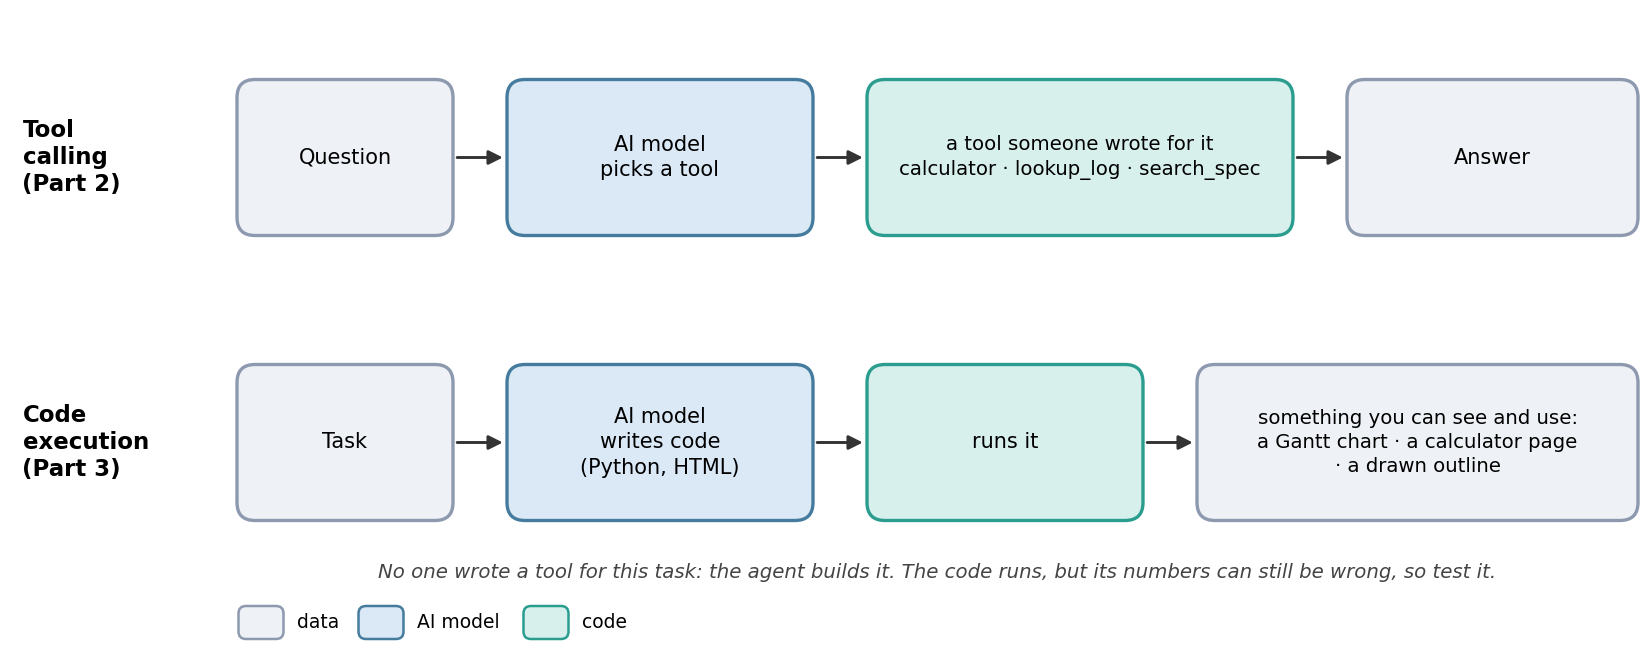
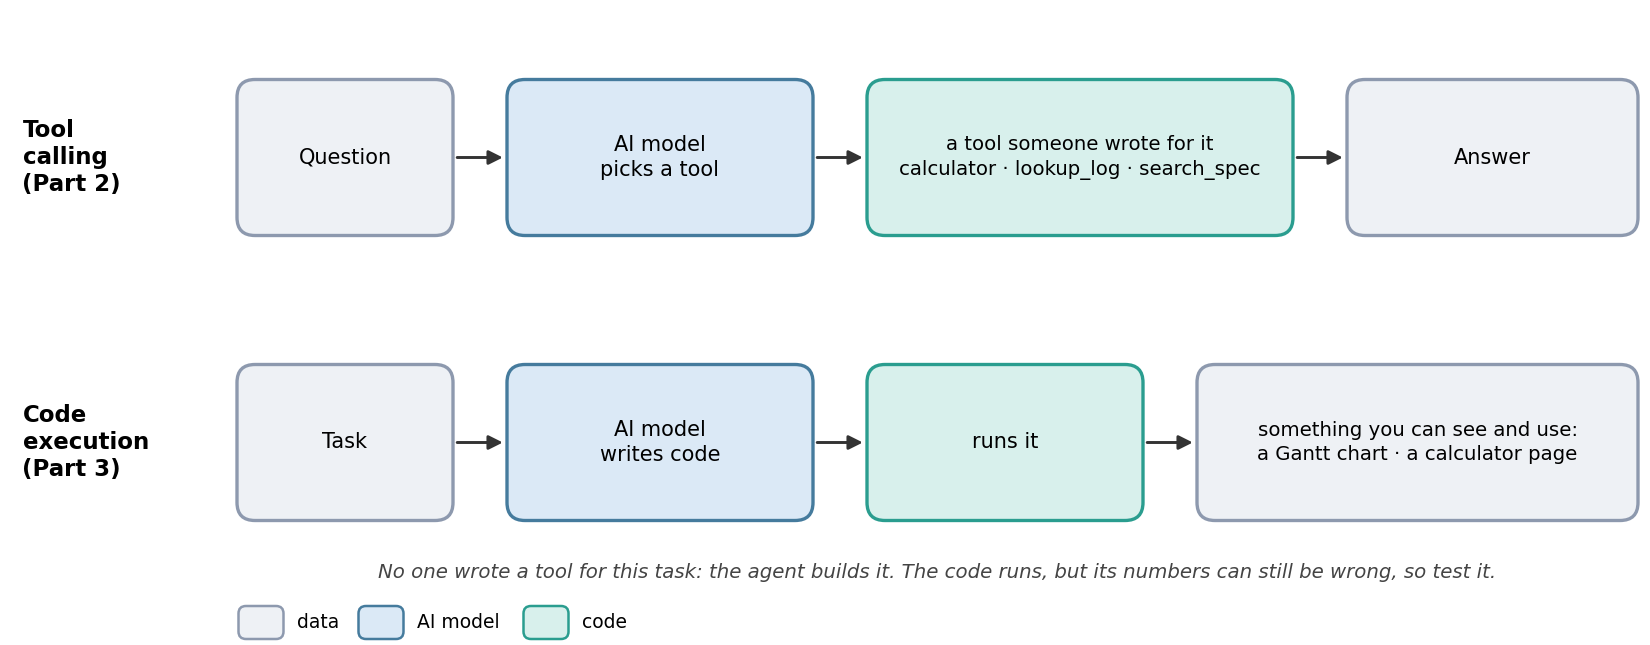
MP8 Part 3: the Step 3a prompt asks for the schedule lines as plain text (not inside the chart) with a YES / NO column, and the scorer reads 'red: NO' as NO; Step 3c (outline drawn from the sides) removed; no Python / HTML in the Part 3 introduction or its diagram

Changed region(s): [[0.7418, 0.6202, 0.9582, 0.7442], [0.34, 0.6202, 0.4636, 0.7442]]

diff --git a/mp8_agents/build/make_notebooks.py b/mp8_agents/build/make_notebooks.py
@@ -170,11 +170,11 @@ An AI agent decides by itself which tool to call and when it has enough to answe
     # ------------------------------------------------------------------ Part 3: code execution
     cells.append(md("""
 ## Part 3 · Code Execution: The Agent Builds Its Own Tool
-In Part 2 the agent chose from tools written for it. Here HokieAI writes and runs its own code (Python, or a web page), and the result is something you can see and use: a chart, a calculator, a drawing. Each result is checked against the ground truth, because code that runs can still give wrong numbers.
+In Part 2 the agent chose from tools written for it. Here HokieAI writes and runs its own code, and the result is something you can see and use: a chart or a calculator. Each result is checked against the ground truth, because code that runs can still give wrong numbers.
 
 ![Tool calling vs. code execution]({FIG}/codeexec.png)
 """.replace("{FIG}", FIG)))
-    cells.append(form("▶ Step 3a · Look-Ahead Schedule: A Gantt Chart in Python", "lab.lookahead()",
+    cells.append(form("▶ Step 3a · Look-Ahead Schedule: A Gantt Chart", "lab.lookahead()",
                       notes=["Run the cell and follow the steps: HokieAI computes each activity's duration and start day, draws a Gantt chart, and marks in red the concrete placements whose mix design is not approved.",
                              "Look-ahead schedule: the near-term part of the project schedule that the field team plans from."],
                       texts=T("lookahead")))
@@ -182,15 +182,9 @@ In Part 2 the agent chose from tools written for it. Here HokieAI writes and run
                       notes=["Run the cell and follow the steps: HokieAI builds a calculator web page (an artifact); you test it with the three cases and enter its outputs."],
                       params=['version = "without the skill"'],
                       texts=T("calculator")))
-    cells.append(form("▶ Step 3c · Check a Takeoff by Drawing It", "lab.outline(drawing)",
-                      notes=["Choose a drawing, run the cell, and follow the steps: HokieAI reads the sides and draws the outline with Python.",
-                             "The notebook redraws the outline from HokieAI's sides with the drawing's own corners: a misread side shows as an outline that does not close."],
-                      params=[choice("drawing", drawings[3]["label"], [p["label"] for p in drawings])],
-                      texts=T("outline")))
     cells.append(question(3,
                           "From Step 3a: Include HokieAI's Gantt chart and the score. Which activities did it mark red, and did any start or finish day differ from the ground truth? Open the code it wrote: which step went wrong, if any?",
                           "From Step 3b: Include a screenshot of your calculator and the score on the three test cases. Which output was wrong, and which formula did the calculator use for it?",
-                          "From Step 3c: Include the outline HokieAI drew and the notebook's comparison. Did the outline close? How does drawing a result help you check it?",
                           "When would you let an agent write and run code for a project task, and what would you check before using its output?"))
 
     # ------------------------------------------------------------------ Part 4: skills

diff --git a/mp8_agents/aec_agent/texts.py b/mp8_agents/aec_agent/texts.py
@@ -117,7 +117,8 @@ TEXTS: Dict[str, Dict[str, str]] = {
                         "3. Draw a Gantt chart: one horizontal bar per activity, from its start day to its finish day, with working days on the x-axis. "
                         "Color a bar red if the activity places concrete (its description starts with \"Place\") and the mix-design submittal for its element "
                         "in submittal_log.csv is not Approved; color the other bars gray.\n"
-                        "4. Below the chart, print one line per activity, in this format:\nA-110 | <start day> | <finish day> | <red: YES or NO>"),
+                        "4. After the chart, write the schedule as plain text in your reply (not inside the chart image), one line per activity, "
+                        "in this format (the last column: YES if the bar is red, otherwise NO):\nA-110 | <start day> | <finish day> | <YES or NO>"),
         "steps_text": ("1. Download {files} with the buttons below and copy the prompt.\n2. Open {url} (sign in with your VT account), start a new chat, "
                        "attach both files, and paste the prompt. Look at the chart and open the code HokieAI wrote.\n" + HOKIE_RESULT_STEPS),
         **BOX,
@@ -132,23 +133,6 @@ TEXTS: Dict[str, Dict[str, str]] = {
         "1. In HokieAI ({url}), start a new chat and turn on the skill of Step 4b (*cmu-foundation-takeoff*) from the chat menu.\n"
         "2. Copy the prompt below (the same as in Step 3b), paste it, and open the new calculator.\n"
         "3. Type in the same test cases, enter the outputs in the box below, and click *Score my calculator*.")},
-    "outline": {
-        "prompt_text": ("The attached foundation plan shows a CMU foundation wall; the dimensions are to the outside face of the wall.\n"
-                        "1. List the length of every side of the wall, going counterclockwise around the outside face: start at the bottom-left "
-                        "corner and go right along the bottom side. If a side is not dimensioned, work out its length from the other dimensions.\n"
-                        "2. Use your Python tool to draw the outline from your side lengths: start at (0, 0), go right along the first side, and turn "
-                        "90° at each corner as the drawing does. Label each side with its length.\n"
-                        "3. End your reply with one line, in this format:\nSIDES: <length 1>, <length 2>, ... (in feet)"),
-        "steps_text": ("1. Download {files} with the button below and copy the prompt.\n2. Open {url} (sign in with your VT account), start a new chat, "
-                       "attach the drawing, and paste the prompt. Compare the outline HokieAI draws with the drawing.\n" + HOKIE_RESULT_STEPS),
-        **BOX,
-        "result_text": "**{drawing}:** {right} of {n} sides read correctly; the outline drawn from them {closes}.",
-        "closed_text": "closes",
-        "open_text": "misses its starting point by {gap} ft",
-        "figure_title_text": "The drawing's outline (gray) vs. the outline drawn from HokieAI's sides (orange)",
-        "table_text": "Ground truth vs. HokieAI's output:",
-        "columns_text": "Side | Ground truth (ft) | HokieAI's output (ft) | Correct",
-    },
     "skills": {
         "system_text": AGENT_SYSTEM,
         "calculator_text": TOOLS["calculator"],

diff --git a/mp8_agents/aec_agent/score.py b/mp8_agents/aec_agent/score.py
@@ -120,9 +120,10 @@ def lookahead(text: str, key: List[dict]) -> pd.DataFrame:
         if not m:
             continue
         nums = re.findall(r"(?<![\d.])\d+(?![\d.])", m.group(2))
-        flag = re.search(r"\b(YES|NO|red|gray|grey)\b", m.group(2), re.I)
+        yn = re.findall(r"\b(YES|NO)\b", m.group(2), re.I)              # "red: NO" is NO: the YES / NO decides
+        colour = re.findall(r"\b(red|gray|grey)\b", m.group(2), re.I)
         if len(nums) >= 2:
-            f = None if not flag else ("YES" if flag.group(1).lower() in ("yes", "red") else "NO")
+            f = yn[-1].upper() if yn else ("YES" if colour and colour[-1].lower() == "red" else ("NO" if colour else None))
             got[m.group(1)] = (int(nums[0]), int(nums[1]), f)            # the last line per activity wins
     rows = []
     for k in key:
@@ -149,24 +150,3 @@ def calculator(text: str, cases: List[dict]) -> pd.DataFrame:
             rows.append({"case": c["id"], "quantity": k["quantity"].replace(f"{c['spacing']} in O.C.", "at the spacing"), "truth": f"{k['value']:g}",
                          "output": "—" if v is None else f"{v:g}", "unit": k["unit"], "correct": "✓" if ok else "✗"})
     return pd.DataFrame(rows)
-
-
-def outline(text: str, segments: List[float], corners: List[List[float]]):
-    """The sides of the SIDES line against the drawing, and the outline drawn from them with the drawing's turns:
-    returns (table, points of that outline, gap in ft between its end and its start)."""
-    import numpy as np
-    got = sides(text)
-    rows = []
-    for i, t in enumerate(segments):
-        v = got[i] if i < len(got) else None
-        rows.append({"side": i + 1, "truth": f"{t:g}", "output": "—" if v is None else f"{v:g}",
-                     "correct": "✓" if v is not None and abs(v - t) < 0.05 else "✗"})
-    for j in range(len(segments), len(got)):
-        rows.append({"side": j + 1, "truth": "—", "output": f"{got[j]:g}", "correct": "✗"})
-    P = np.array(corners, float)
-    dirs = [(P[(i + 1) % len(P)] - P[i]) / np.linalg.norm(P[(i + 1) % len(P)] - P[i]) for i in range(len(P))]
-    pts = [np.zeros(2)]
-    for i, v in enumerate(got[:len(dirs)]):
-        pts.append(pts[-1] + v * dirs[i])
-    gap = float(np.linalg.norm(pts[-1] - pts[0])) if len(got) >= len(dirs) else float("nan")
-    return pd.DataFrame(rows), np.array(pts), gap

diff --git a/mp8_agents/aec_agent/lab.py b/mp8_agents/aec_agent/lab.py
@@ -209,23 +209,6 @@ class AgentLab:
             say(texts, G, "runs_text"); ui.table(ui.named(runs, text(texts, G, "runs_columns_text")))
         ui.hokieai_box(text(texts, G, "prompt_text"), on_score, texts, G)
 
-    def outline(self, drawing: str, **texts):
-        """HokieAI reads the sides of a foundation plan and draws the outline with Python; the notebook redraws it from
-        those sides with the drawing's own turns, so a misread side shows as an outline that does not close."""
-        self._need(); G = "outline"
-        p = self.by_drawing[drawing]
-        img = self._image(p)
-        ui.show_image(img, 600)
-
-        def on_score(reply):
-            df, pts, gap = score.outline(reply, p["segments"], p["corners"])
-            closes = text(texts, G, "closed_text") if gap == gap and gap < 0.05 else fill_prompt(text(texts, G, "open_text"),
-                                                                                                 gap=f"{gap:.1f}" if gap == gap else "?")
-            say(texts, G, "result_text", drawing=drawing, right=int((df.correct == "✓").sum()), n=len(p["segments"]), closes=closes)
-            ui.outline_figure(p["corners"], pts, text(texts, G, "figure_title_text"))
-            say(texts, G, "table_text"); ui.table(ui.named(df, text(texts, G, "columns_text")))
-        ui.hokieai_box(text(texts, G, "prompt_text"), on_score, texts, G, [img])
-
     # ================================================================== Part 4: skills
     def _skill_questions(self):
         """The two takeoff questions (the skill applies) and one project question (it does not)."""

diff --git a/mp8_agents/aec_agent/ui.py b/mp8_agents/aec_agent/ui.py
@@ -121,20 +121,6 @@ def gantt(rows: List[dict], title: str, axis: str):
     display(Image(buf.getvalue()))
 
 
-def outline_figure(corners, pts, title: str):
-    """The drawing's outline (gray) and the one drawn from the model's sides (orange), with the end point marked."""
-    import numpy as np
-    P = np.array(corners + [corners[0]], float)
-    fig, ax = plt.subplots(figsize=(6, 4.6))
-    ax.plot(P[:, 0], P[:, 1], color=GREY, lw=6, alpha=0.5, label="the drawing")
-    if len(pts) > 1:
-        ax.plot(pts[:, 0], pts[:, 1], color=ORANGE, lw=2, marker="o", ms=3, label="from the model's sides")
-        ax.plot(*pts[-1], marker="x", color="#e63946", ms=10, mew=2)
-    ax.set_aspect("equal"); ax.legend(fontsize=8, loc="best"); ax.set_title(title, fontsize=10); ax.set_xlabel("ft"); ax.set_ylabel("ft")
-    buf = io.BytesIO(); fig.savefig(buf, format="png", dpi=100, bbox_inches="tight"); plt.close(fig)
-    display(Image(buf.getvalue()))
-
-
 class Progress:
     """One line that says which question is running (live runs take a few seconds each), cleared at the end."""
 

diff --git a/mp8_agents/build/make_figures.py b/mp8_agents/build/make_figures.py
@@ -136,9 +136,9 @@ def codeexec():
 
     ax.text(0.15, 1.35, "Code\nexecution\n(Part 3)", fontsize=11, weight="bold", va="center", family=FONT)
     box(ax, 1.6, 0.85, 3.0, 1.85, "Task")
-    box(ax, 3.4, 0.85, 5.4, 1.85, "AI model\nwrites code\n(Python, HTML)", "model")
+    box(ax, 3.4, 0.85, 5.4, 1.85, "AI model\nwrites code", "model")
     box(ax, 5.8, 0.85, 7.6, 1.85, "runs it", "code")
-    box(ax, 8.0, 0.85, 10.9, 1.85, "something you can see and use:\na Gantt chart · a calculator page\n· a drawn outline", size=9.5)
+    box(ax, 8.0, 0.85, 10.9, 1.85, "something you can see and use:\na Gantt chart · a calculator page", size=9.5)
     for a_, b_ in ((3.02, 3.38), (5.42, 5.78), (7.62, 7.98)):
         arrow(ax, (a_, 1.35), (b_, 1.35))
     ax.text(6.25, 0.45, "No one wrote a tool for this task: the agent builds it. The code runs, but its numbers can still be wrong, so test it.",

diff --git a/mp8_agents/build/generate_project.py b/mp8_agents/build/generate_project.py
@@ -144,7 +144,7 @@ def drawings(n=5, seed=4653, draw=True):
             G.draw_foundation(pts, hide, p["thickness"], out / f"{name}.png", f"S-20{i + 1}")
         segs = segments(pts)
         problems.append({"id": name, "label": f"Foundation plan {i + 1}", "image": f"{name}.png", "shape": kind, "hidden_segment": hide,
-                         "segments": segs, "corners": [list(map(float, q)) for q in pts], "wall_length_ft": round(sum(segs), 3), **p,
+                         "segments": segs, "wall_length_ft": round(sum(segs), 3), **p,
                          "text": takeoff_text(p, "The attached foundation plan shows"), "key": takeoff_key(sum(segs), p)})
     return problems
 

diff --git a/mp8_agents/docs/Instructor_Guide.md b/mp8_agents/docs/Instructor_Guide.md
@@ -11,12 +11,11 @@ key. Part 3, Steps 4b-4c and Part 5 use HokieAI in the browser (paste-back).
 |---|---|---|
 | 1 · AI Workflows | 1a drawings, 1b one prompt, 1c workflow, 1d compare | A task split into fixed steps: the AI model reads the drawing, code applies the estimating conventions |
 | 2 · AI Agents | 2a documents, 2b run with chosen tools, 2c trace | An AI model that decides which tool to call; the student ticks the tools; correct / UNKNOWN / wrong (guessed) per run |
-| 3 · Code Execution | 3a look-ahead Gantt chart (Python), 3b takeoff calculator (artifact), 3c outline drawn from the sides read (Python) | The agent writes and runs its own code; each result is something to see and is scored against the ground truth |
+| 3 · Code Execution | 3a look-ahead Gantt chart (HokieAI's Python tool), 3b takeoff calculator (artifact) | The agent writes and runs its own code; each result is something to see and is scored against the ground truth |
 | 4 · Skills | 4a agent with / without the skill, 4b the same skill in HokieAI, 4c the calculator rebuilt with the skill | Instructions with a name and a description that the agent loads only when the task matches |
 | 5 · Your Own HokieAI Agent | 5a create, 5b ask and score | Instructions + knowledge sources (the three project files), compared with the Gemini agent |
 
-**Part 3 ground truth** (`build/generate_project.py`: `lookahead_key.json`, `calculator_cases.json`, `corners` in
-`drawings/problems.json`):
+**Part 3 ground truth** (`build/generate_project.py`: `lookahead_key.json`, `calculator_cases.json`):
 - 3a: duration = quantity / daily output rounded up (3, 3, 6, 5, 3, 3 working days); the sequence is given in the prompt
   (A-110 → A-120 → A-210 → A-310 → A-410, A-510 after A-210): A-110 1–3, A-120 4–6, A-210 7–12, A-310 13–17,
   A-410 18–20, A-510 13–15. Red (mix design not approved): A-210 (revise and resubmit), A-410 and A-510 (under
@@ -26,11 +25,8 @@ key. Part 3, Steps 4b-4c and Part 5 use HokieAI in the browser (paste-back).
   tolerances 1 % (CMUs) and 2 % (grout). The prompt does not give the conventions, so the expected failure without the
   skill is the partial grout (as in Part 1); with the skill it should pass. Students type the cases into the artifact
   and enter its outputs; the table keeps the two calculators side by side.
-- 3c: the sides of the chosen plan (default plan 4, the bump with one undimensioned side: 40, 4, 8, 24, 8, 6, 40, 34);
-  the notebook redraws the outline from the student's sides with the drawing's own corners, so a misread side shows
-  as a gap at the start point.
-- Not measured from here: what HokieAI actually produces (its Python charts, its artifacts). Try the three prompts
-  once before class.
+- 3a tried in HokieAI (instructor, October 2026): the chart and all six lines exactly right. The prompt asks for the
+  lines as plain text in the reply, because HokieAI otherwise prints them inside the chart image. 3b not yet tried.
 
 **The practice project** (`build/generate_project.py`, fictional): a concrete specification table with
 project-specific limits (for example maximum w/cm 0.48 for foundation walls, 0.42 for exterior slabs), a submittal log
@@ -95,10 +91,9 @@ differ. That is worth saying in class: Part 1's one prompt gave 8 and 11 of 15 i
    for these questions (a fair finding). With missing tools the agent mostly said UNKNOWN, but it also guessed
    (P1 = 0.50 with only the logs). A guess is the more dangerous failure; checking the trace (which tool, which
    output) is how to verify an answer.
-3. Code execution: a good answer shows the chart, the calculator and the outline, says which number was wrong and finds
+3. Code execution: a good answer shows the chart and the calculator, says which number was wrong and finds
    the line of code or the formula behind it (often the partial grout, a rounding of the duration, or a finish-to-start
-   off by one day), and concludes that code that runs is not code that is right: test it on cases with a known answer
-   or check it by drawing it.
+   off by one day), and concludes that code that runs is not code that is right: test it on cases with a known answer.
 4. The skill fixes the partial grout and is loaded only for the takeoff questions. With a vague description the agent
    may not load it: the description is what the agent reads to decide. Skills students suggest: company estimating
    rules, a report format, a submittal-review checklist.

diff --git a/README.md b/README.md
@@ -10,4 +10,4 @@ Course material for CEM4644 (AI for construction).
 | [`mp5_llm_vision/`](mp5_llm_vision/) | MP5 · One generalist for everything: a vision-language model (Gemini) does the classification, detection and floor-plan take-off of MP2–MP4 by prompt, with structured JSON output shown both ways (asked for in the prompt vs. enforced by a schema), scored against the same answer keys and compared with the earlier labs' specialists; the model's boxes can be handed to SAM 3. No-code Colab notebooks for the workshop and the homework, hidden helper code, examples with precomputed replies, a prompt-lab app and an instructor guide. |
 | [`mp6_tabular_timeseries/`](mp6_tabular_timeseries/) | MP6 · Tables and time series, in two parts. MP6A: 1,030 real concrete mixes predicted as a number (regression) and as a class (strength grades, pass / fail against a specification), with what-if sliders. MP6B: four campus buildings' hourly electricity forecast a week ahead three ways (last week, gradient-boosted trees, a pretrained forecasting model) and searched for days that do not fit. Both end by giving the same job to a chat model (hokie.ai), on its own and with its data-analysis tool, and scoring the pasted replies next to the notebook's models. The homework repeats each part on simulated building shapes and four other buildings. No-code Colab notebooks, hidden helper code, 2 MB of license-clean data, an upload app for the students' own CSV and an instructor guide. |
 | [`mp7_prompt_engineering/`](mp7_prompt_engineering/) | MP7 · Prompt engineering with generative AI (HokieAI) on construction text and drawings: 30 OSHA incident reports classified into the Focus Four, practice submittals reviewed against UFGS specification excerpts, 27 questions answered from FAR construction clauses with quotes, quantity takeoffs from foundation plans and gable roofs, and door schedules read from a drawing sheet, each benchmarked over given prompt versions (and the student's own) against the ground truth; a one-prompt copy of Parts 1–3 (incident reports, submittals, contract) comes first. The drawings are original practice drawings made for the course. No-code Colab notebook, hidden helper code, report template and instructor guide. |
-| [`mp8_agents/`](mp8_agents/) | MP8 · AI workflows and AI agents for a construction project: a takeoff from five foundation plans with one prompt vs. a fixed workflow (the AI model reads the drawing, code computes); an AI agent (Gemini, function calling) answering six questions about a practice project with the tools the student chooses (a specification search, a calculator, the submittal log and schedule), with every tool call traced; code execution in HokieAI (the agent writes and runs its own code: a look-ahead Gantt chart, a takeoff calculator page, a foundation outline drawn from the sides it read, each checked against the ground truth); a skill (estimating conventions the agent loads when needed), also created in HokieAI; and the student's own HokieAI agent with the project files as knowledge sources. Everything is made for the course and scored against the ground truth. No-code Colab notebook, hidden helper code, stored model outputs, report template and instructor guide. |
+| [`mp8_agents/`](mp8_agents/) | MP8 · AI workflows and AI agents for a construction project: a takeoff from five foundation plans with one prompt vs. a fixed workflow (the AI model reads the drawing, code computes); an AI agent (Gemini, function calling) answering six questions about a practice project with the tools the student chooses (a specification search, a calculator, the submittal log and schedule), with every tool call traced; code execution in HokieAI (the agent writes and runs its own code: a look-ahead Gantt chart and a takeoff calculator page, each checked against the ground truth); a skill (estimating conventions the agent loads when needed), also created in HokieAI; and the student's own HokieAI agent with the project files as knowledge sources. Everything is made for the course and scored against the ground truth. No-code Colab notebook, hidden helper code, stored model outputs, report template and instructor guide. |

diff --git a/mp8_agents/README.md b/mp8_agents/README.md
@@ -21,10 +21,8 @@ output is scored against the ground truth. No programming and no GPU needed.
    runs table counts correct, UNKNOWN (the agent said it could not find the value) and wrong (it guessed) answers,
    tool calls and time; a trace shows every tool call with its inputs and output.
 3. **Code execution** (HokieAI): the agent writes and runs its own code, and the result is something to see: a
-   look-ahead Gantt chart in Python that marks the concrete placements whose mix design is not approved, a takeoff
-   calculator built as an artifact and tested on three cases, and a foundation outline drawn from the sides it read
-   (the notebook redraws it with the drawing's corners, so a misread side leaves a gap). Each is scored against the
-   ground truth.
+   look-ahead Gantt chart that marks the concrete placements whose mix design is not approved, and a takeoff
+   calculator built as an artifact and tested on three cases. Each is scored against the ground truth.
 4. **Skills** (Gemini, then HokieAI): the estimating conventions written as a skill (name, description, body) that the
    agent loads with `load_skill` only when the description matches the task; two takeoff questions and one project
    question, with and without the skill, and with a vague description. Then the same skill created in HokieAI

diff --git a/mp8_agents/docs/MP8_Workshop_Report_Template.md b/mp8_agents/docs/MP8_Workshop_Report_Template.md
@@ -34,8 +34,6 @@ From Step 3a: Include HokieAI's Gantt chart and the score. Which activities did 
 
 From Step 3b: Include a screenshot of your calculator and the score on the three test cases. Which output was wrong, and which formula did the calculator use for it?
 
-From Step 3c: Include the outline HokieAI drew and the notebook's comparison. Did the outline close? How does drawing a result help you check it?
-
 When would you let an agent write and run code for a project task, and what would you check before using its output?
 
 *Your answer:*
